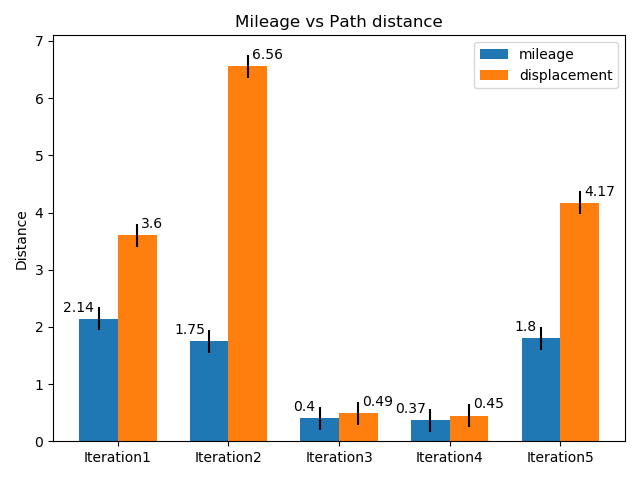
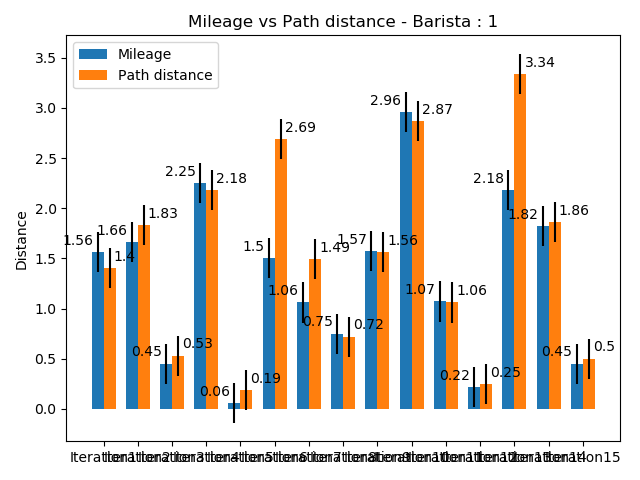
plot for 15 iterations

diff --git a/mileage_observer/mileage_observer/graph_plotter.py b/mileage_observer/mileage_observer/graph_plotter.py
@@ -3,8 +3,6 @@ import matplotlib
 import matplotlib.pyplot as plt
 import numpy as np
 
-
-
 class MileageObserverPlotter:
     
     def mil_path_graph(mil_arr,path_arr):
@@ -17,30 +15,31 @@ class MileageObserverPlotter:
             path_arr = trunc(path_arr,decs=2)
             iteration = []
             std =[]
+           
             for j in range(len(path_arr[i])):
                 iteration.append('Iteration'+str(j+1))
                 std.append(0.2)
-
+                
             mileage, mileage_std = mil_arr[i], std
             path_dist, path_dist_std = path_arr[i], std
 
             ind = np.arange(len(mileage))  # the x locations for the groups
             width = 0.35  # the width of the bars
-
+            
             fig, ax = plt.subplots()
             rects1 = ax.bar(ind - width/2, mileage, width, yerr=mileage_std,label='Mileage')
             rects2 = ax.bar(ind + width/2, path_dist, width, yerr=path_dist_std,label='Path distance')
 
             # Add some text for labels, title and custom x-axis tick labels, etc.
             ax.set_ylabel('Distance')
-            ax.set_title('Mileage vs Path distance')
+            ax.set_title('Mileage vs Path distance - Barista : ' + str(i))
             ax.set_xticks(ind)
             
             
 
             ax.set_xticklabels(iteration)
             ax.legend()
-
+            
 
             def autolabel(rects, xpos='center'):
                 ha = {'center': 'center', 'right': 'left', 'left': 'right'}
@@ -60,5 +59,6 @@ class MileageObserverPlotter:
 
             fig.tight_layout()
             plt.savefig('../data/graphs/barista_'+str(i)+'.png')
+        
         plt.show()    
-    
+   
